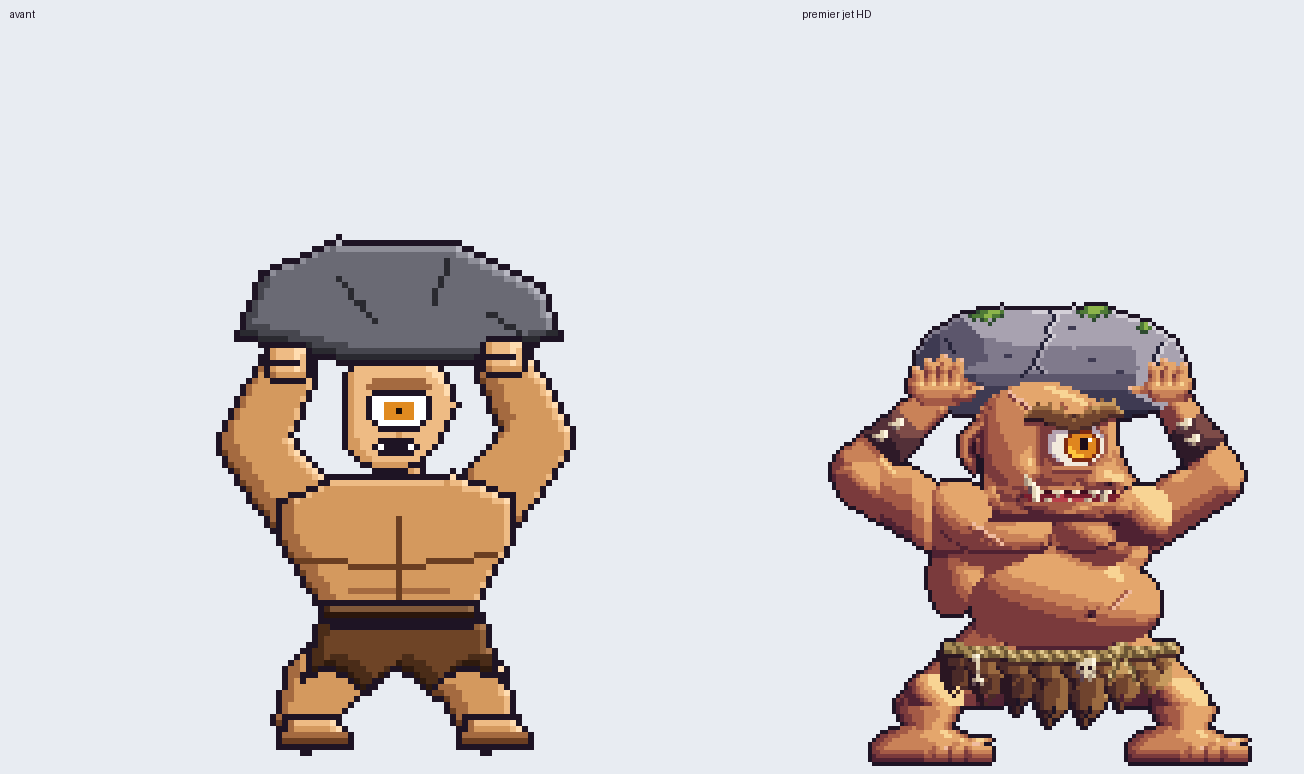
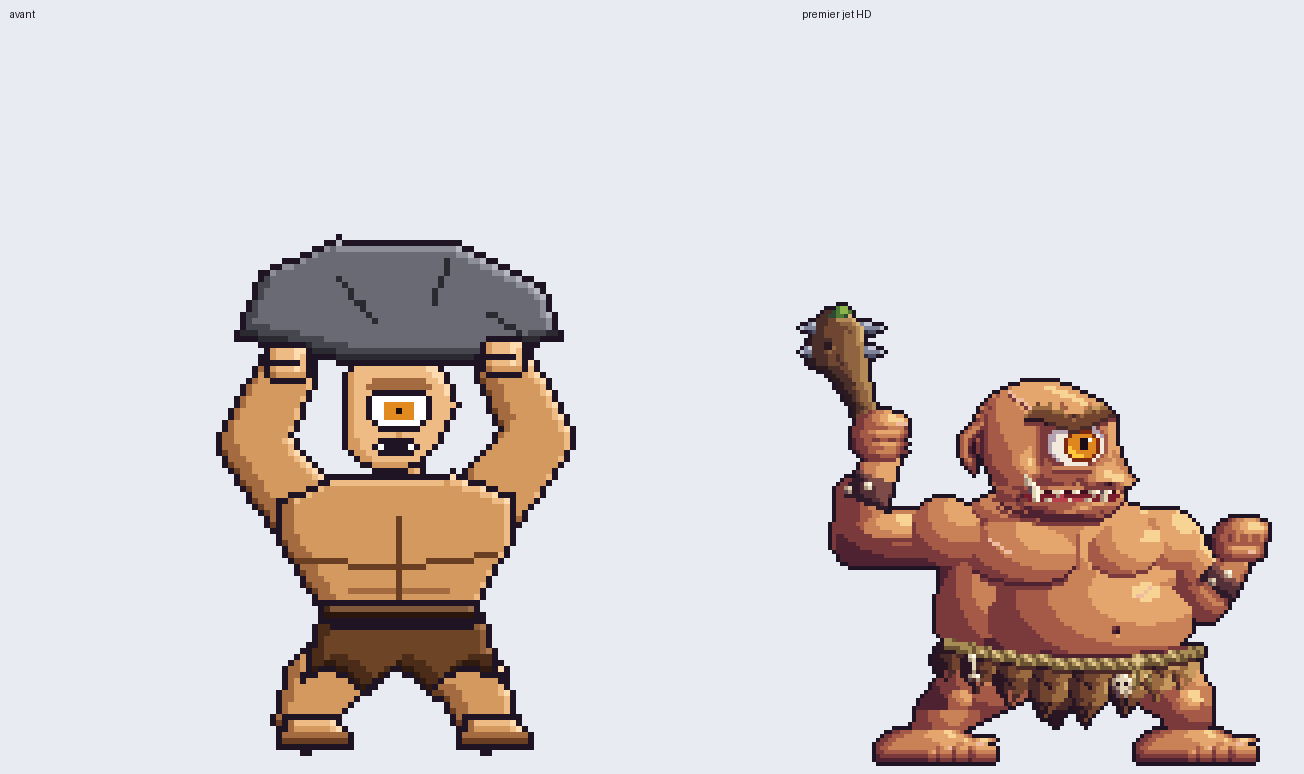
Héros HD : Auriel (épaule, pointes de fer) et Astérion (coude) retouchés
Claude-Session: https://claude.ai/code/session_01StTiAY1KCerfi9tSgksXg5

Changed region(s): [[0.6135, 0.3721, 0.9816, 0.9922], [0.6442, 0.9612, 0.6748, 0.9922]]

diff --git a/refonte-graphique/pixel/hd/suivi.py b/refonte-graphique/pixel/hd/suivi.py
@@ -58,7 +58,7 @@ RETOUCHES = {
     'minotaure': "Enlever la barre d'or qui traîne dans l'aile ; refaire le motif de l'aile à cet endroit.",
 }
 # retouches faites, en attente du regard du propriétaire
-FAITES = set()
+FAITES = {'auriel', 'cyclope'}
 ELEMENTS = [('eau', 'Eau'), ('terre', 'Terre'), ('feu', 'Feu'), ('vent', 'Vent')]
 
 
